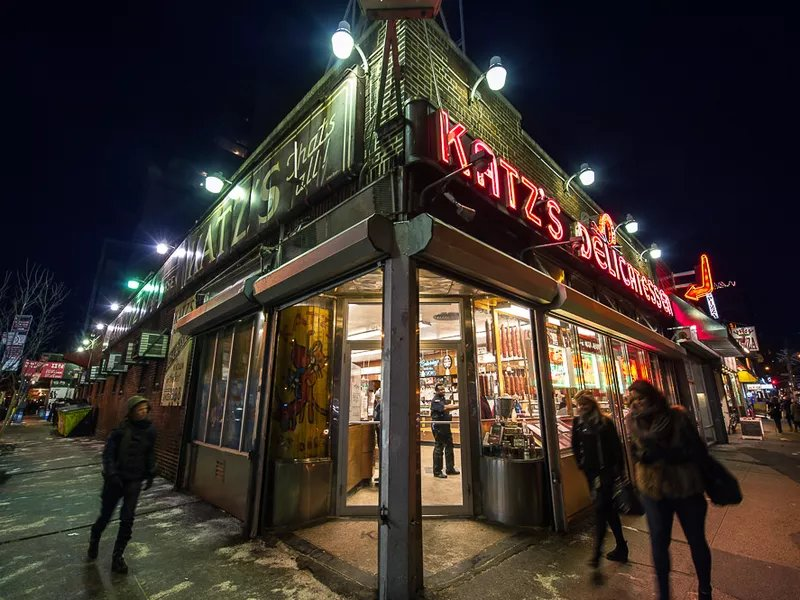
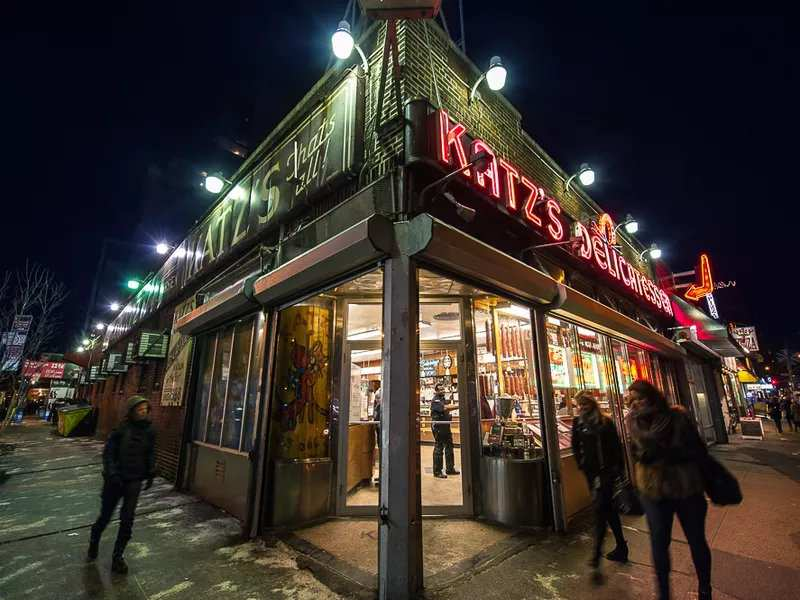
feat: reduce image sizes
Reduce image sizes using gulp-image-resize plugin

diff --git a/gulpfile.js b/gulpfile.js
@@ -1,5 +1,6 @@
 const gulp = require('gulp');
 const autoprefixer = require('gulp-autoprefixer');
+const imageResize = require('gulp-image-resize');
 
 gulp.task('default', () =>
 	gulp.src('css/styles.css')
@@ -9,3 +10,13 @@ gulp.task('default', () =>
 		}))
 		.pipe(gulp.dest('dist'))
 );
+
+gulp.task('resize', function () {
+    gulp.src('img/*.jpg')
+      .pipe(imageResize({
+        width : 800,
+        height : 600,
+        quality: 0.55
+      }))
+      .pipe(gulp.dest('dist'));
+  });
